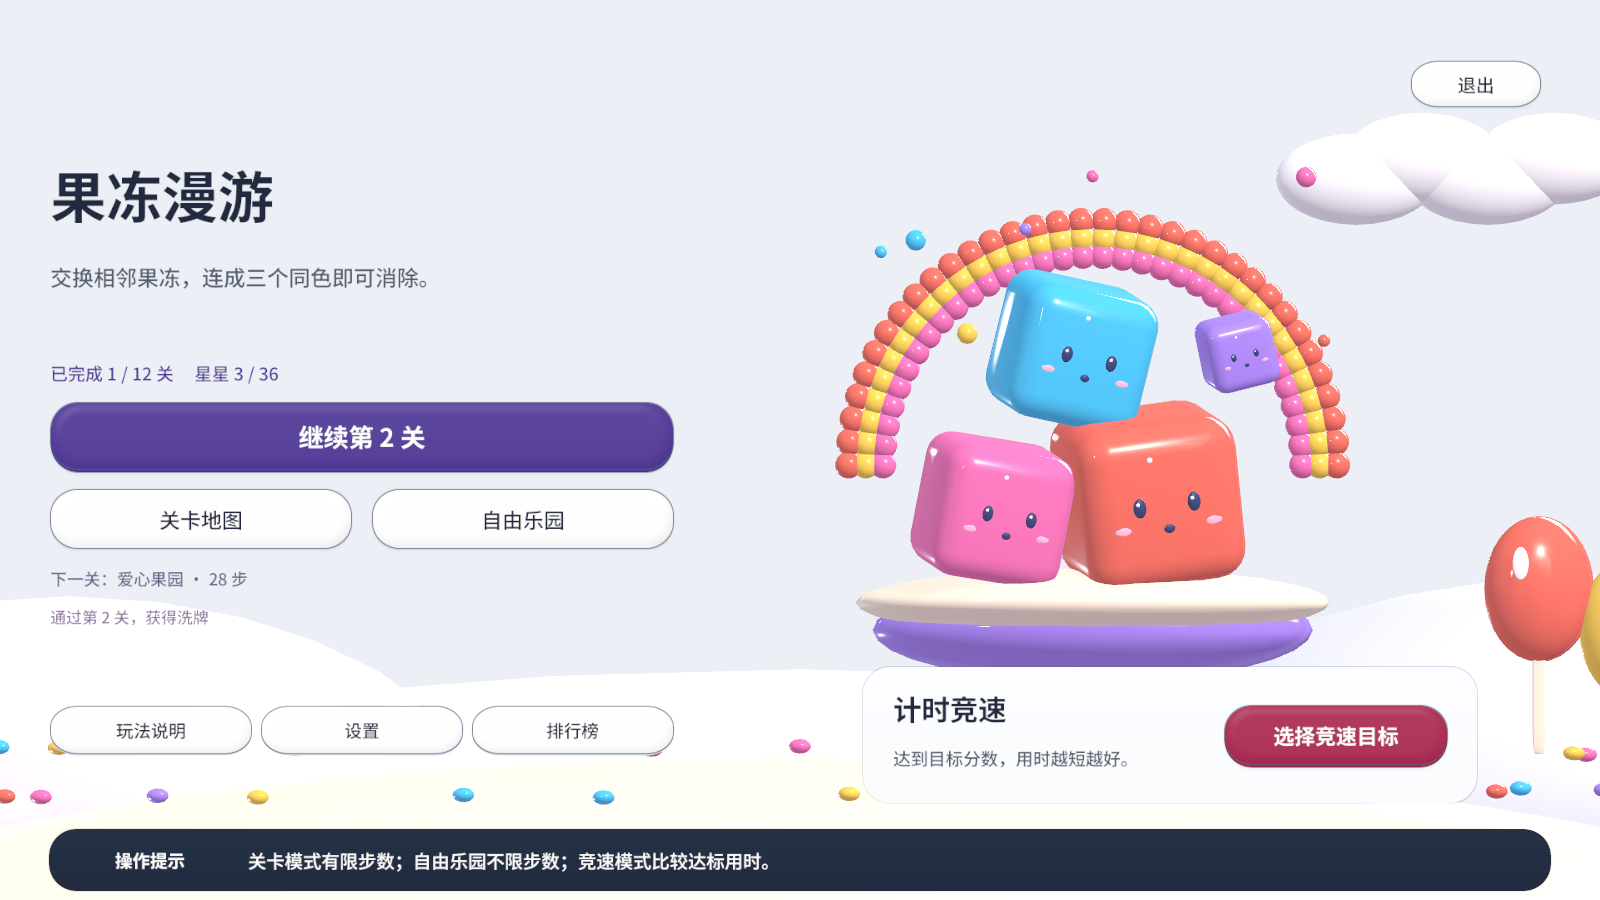
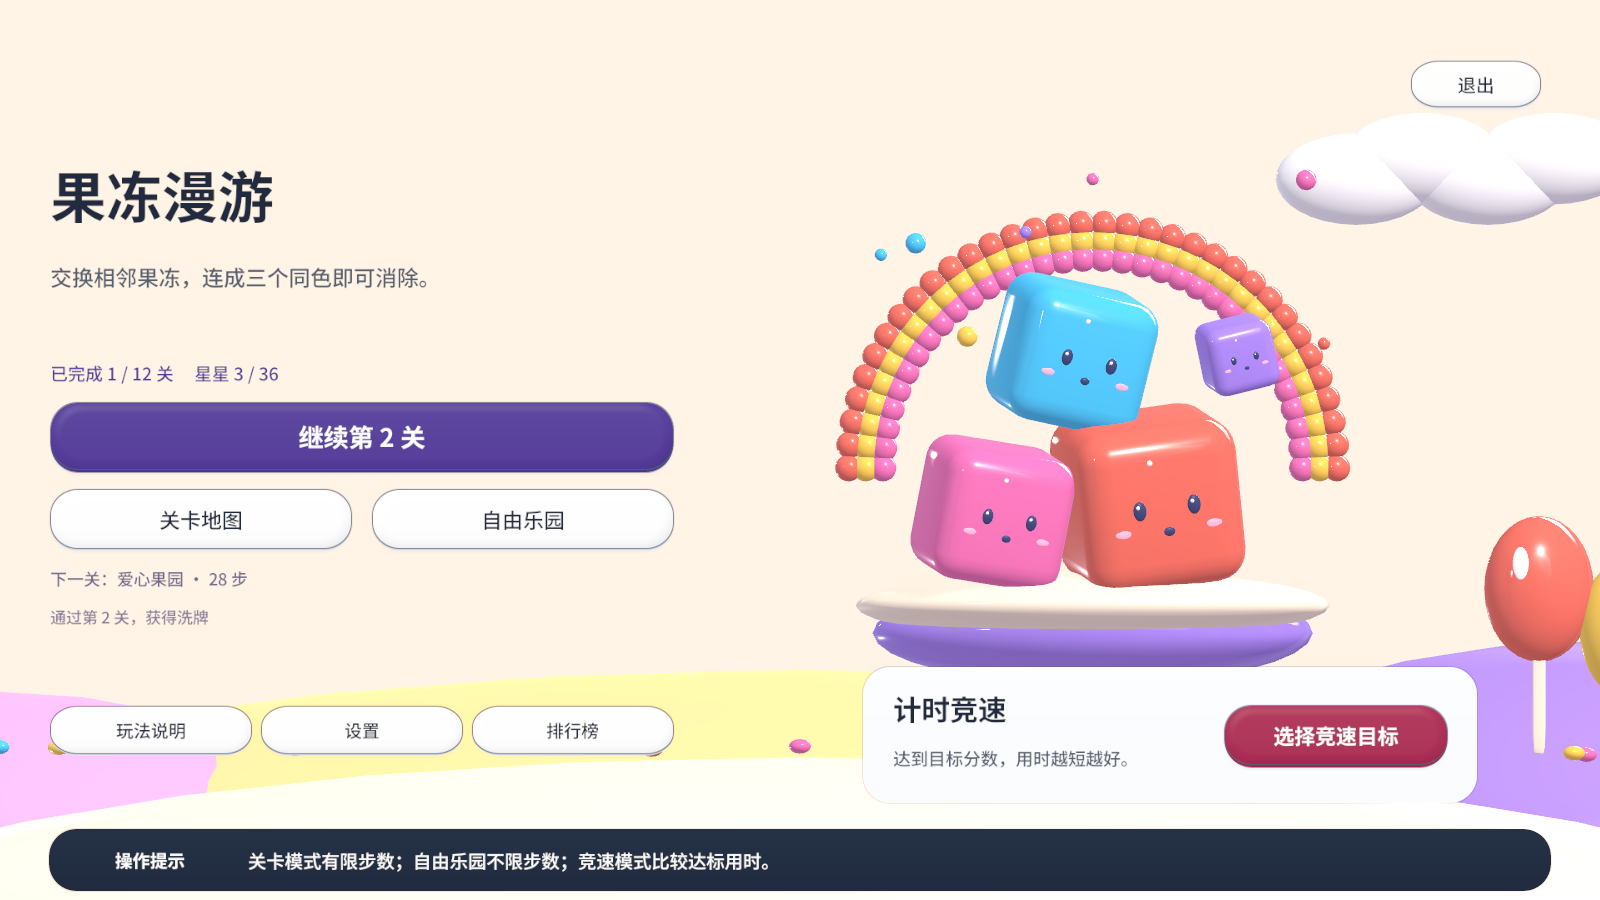
style: restore a colorful candy backdrop on the home screen

diff --git a/Assets/JellyWorld/Scripts/JellyWorld.cs b/Assets/JellyWorld/Scripts/JellyWorld.cs
@@ -103,13 +103,14 @@ namespace JellyWorldGame
         {
             decor=Group("Marshmallow archipelago",transform);
             menuClouds=Group("Menu cloud scenery",decor);sidebarScenery=Group("Menu right-side scenery",decor);
-            var ground=Application.isPlaying?ComfortMaterial(mint,"E5ECEB",.28f):mint;
-            var rose=Application.isPlaying?ComfortMaterial(blush,"F1E6EA",.28f):blush;
-            var lavender=Application.isPlaying?ComfortMaterial(candy[4],"E6E8F2",.28f):candy[4];
-            Shape("Pistachio planet",decor,new Vector3(0,-7,16),new Vector3(33,8,16),ground,true);
+            landscapeGround=Application.isPlaying?ComfortMaterial(mint,"E5ECEB",.28f):mint;
+            landscapeRose=Application.isPlaying?ComfortMaterial(blush,"F1E6EA",.28f):blush;
+            landscapeLavender=Application.isPlaying?ComfortMaterial(candy[4],"E6E8F2",.28f):candy[4];
+            homeBackdropApplied=null;sceneryPebbles.Clear();
+            Shape("Pistachio planet",decor,new Vector3(0,-7,16),new Vector3(33,8,16),landscapeGround,true);
             Shape("Vanilla shore",decor,new Vector3(0,-7.2f,8),new Vector3(30,6,9),cream,true);
-            Shape("Rose dune",decor,new Vector3(-10,-5.5f,14),new Vector3(12,7,10),rose,true);
-            Shape("Lavender dune",decor,new Vector3(11,-5.2f,15),new Vector3(14,7,10),lavender,true);
+            roseDune=Shape("Rose dune",decor,new Vector3(-10,-5.5f,14),new Vector3(12,7,10),landscapeRose,true).transform;
+            lavenderDune=Shape("Lavender dune",decor,new Vector3(11,-5.2f,15),new Vector3(14,7,10),landscapeLavender,true).transform;
             for(int side=-1;side<=1;side+=2) {
                 if(side==1)for(int i=0;i<4;i++) {
                     float x=side*(7.6f+i*.9f);
@@ -124,7 +125,7 @@ namespace JellyWorldGame
             }
             for(int i=0;i<22;i++) {
                 float x=Mathf.Sin(i*12.32f)*11, y=-4.4f+Mathf.Cos(i*3.1f)*.35f;
-                Shape("Sugar pebble",decor,new Vector3(x,y,1+i%3),new Vector3(.3f,.2f,.32f),candy[i%5],true);
+                sceneryPebbles.Add(Shape("Sugar pebble",decor,new Vector3(x,y,1+i%3),new Vector3(.3f,.2f,.32f),candy[i%5],true));
             }
         }
         void BuildHero()
@@ -234,6 +235,7 @@ namespace JellyWorldGame
             HideCampaignPages();
             BeginRaceRun();
             ResetContextHints();
+            RefreshBackdropTheme();
             UpdateHUD();Tone(520,.13f);idle=0;
         }
         public void ShowMenu()
@@ -250,11 +252,13 @@ namespace JellyWorldGame
             HideCampaignPages();
             RefreshJourneyHome();
             ResetContextHints();
+            RefreshBackdropTheme();
         }
         void Update()
         {
             TickRace();
             RefreshContextHelp();
+            RefreshBackdropTheme();
             if(mode!="play" || paused)ResetBoardGesture();
             UpdateTileHover();
             if(mode=="range") { if(Input.GetKeyDown(KeyCode.Escape)) TogglePause(); return; }

diff --git a/Assets/JellyWorld/Scripts/JellyWorldReadability.cs b/Assets/JellyWorld/Scripts/JellyWorldReadability.cs
@@ -1,3 +1,4 @@
+using System.Collections.Generic;
 using UnityEngine;
 using UnityEngine.UI;
 
@@ -7,6 +8,27 @@ namespace JellyWorldGame
     {
         Color UiBackdrop { get { return new Color(.925f,.94f,.965f); } }
         Color MutedText { get { return new Color(.33f,.37f,.44f); } }
+        Material landscapeGround,landscapeRose,landscapeLavender;
+        Transform roseDune,lavenderDune;
+        readonly List<GameObject> sceneryPebbles=new List<GameObject>();
+        bool? homeBackdropApplied;
+
+        void RefreshBackdropTheme()
+        {
+            bool home=mode=="menu";
+            if(homeBackdropApplied==home)return;
+            homeBackdropApplied=home;
+            if(cam!=null)cam.backgroundColor=home?(Color)new Color32(255,244,230,255):UiBackdrop;
+            if(!Application.isPlaying)return;
+            // Only tint the existing scenery copies; jelly pieces keep their own palette.
+            if(landscapeGround!=null)landscapeGround.color=home?new Color32(255,225,151,255):new Color32(229,236,235,255);
+            if(landscapeRose!=null)landscapeRose.color=home?new Color32(255,175,225,255):new Color32(241,230,234,255);
+            if(landscapeLavender!=null)landscapeLavender.color=home?new Color32(177,140,235,255):new Color32(230,232,242,255);
+            // Keep the pink crest below the text column, and leave fewer edge candies on home.
+            if(roseDune!=null)roseDune.localPosition=home?new Vector3(-11,-6.8f,14):new Vector3(-10,-5.5f,14);
+            if(lavenderDune!=null)lavenderDune.localPosition=home?new Vector3(11,-6.1f,15):new Vector3(11,-5.2f,15);
+            for(int i=0;i<sceneryPebbles.Count;i++)if(sceneryPebbles[i]!=null)sceneryPebbles[i].SetActive(!home || i%2==0);
+        }
 
         Image ReadingPanel(string name,Transform parent,Vector2 position,Vector2 size)
         {

diff --git a/Assets/JellyWorld/Editor/JellyRaceVerification.cs b/Assets/JellyWorld/Editor/JellyRaceVerification.cs
@@ -127,7 +127,7 @@ public static class JellyRaceVerification
     {
         yield return null;world.ShowMenu();yield return null;
         Check(GameObject.Find("Race mode entry")!=null,"home exposes the race entry");
-        yield return Capture("01-home");yield return Capture("01-home-1280",1280,720);
+        yield return Capture("01-home");yield return Capture("01-home-1280",1280,720);yield return Capture("01-home-4x3",1024,768);
         var help=GameObject.Find("Instruction").GetComponent<Text>();
         string homeHelp=help.text;
         Check(homeHelp.Contains("有限步数"),"home has persistent mode guidance");

diff --git a/Docs/UI_READABILITY.md b/Docs/UI_READABILITY.md
@@ -4,7 +4,7 @@
 
 - 主要按钮使用深紫或深莓红底色与白字；次要按钮保留白底，并增加持续可见的深色描边。
 - 降低按钮高光，保留悬停、按压反馈，避免高光把实色按钮冲淡。
-- 降低背景山丘的饱和度，为目标、道具和竞速数据增加独立阅读底板。
+- 游戏页面降低背景山丘的饱和度，为目标、道具和竞速数据增加独立阅读底板。
 - 选中的章节和道具使用深色填充；锁定和用完的道具显示不同状态及原因。
 - 删除英文装饰、重复口号和泛化鼓励语，保留实际目标、进度、解锁条件与保存规则。
 - 为排行榜补充名次、玩家、分数、星星和日期列名。
@@ -24,3 +24,9 @@
 提示栏与阅读底板本身不拦截空白区域点击，按钮保留原有点击行为。守护者与靶场使用各自的专用操作栏。
 
 验收与实际截图见 [2026-11-01 验收记录](verification/2026-11-01/RESULTS.md)。
+
+## 主页糖果背景
+
+主页保留原有彩虹果冻、云朵、糖果树和漂浮岛，恢复奶油底色、棉花糖粉、薰衣草紫与蜂蜜黄。鲜艳色块集中在右侧角色与页面下沿；粉色山丘下移以避开左侧文字，主页底部装饰糖粒减半。按钮描边、阅读底板与操作提示栏继续保留。
+
+主页使用独立的背景配色；进入关卡或其他模式时恢复低饱和背景，返回主页时自动恢复糖果色。复用现有模型和运行时材质副本，不修改果冻棋子的颜色或素材文件。

diff --git a/Assets/JellyWorld/README.md b/Assets/JellyWorld/README.md
@@ -26,6 +26,8 @@
 
 首页保留关卡旅程、自由乐园和计时竞速入口，删除装饰性英文和重复口号。深色主按钮与描边次按钮在低饱和背景上保持清晰；进度、解锁条件和快捷设置保留。页面淡入在简洁特效模式下直接跳过；全部美术复用已有场景、字体和圆角资源。
 
+主页单独使用奶油底色、粉色与薰衣草色山丘和蜂蜜黄地形，保留原有彩虹、糖果树和果冻角色。鲜艳色块位于角色周围与页面边缘，避开文字；装饰糖粒减半。进入游戏或其他页面时恢复低饱和场景，返回主页时恢复糖果配色；切换不创建新材质，不改变棋子的颜色。
+
 计时竞速有 3000、6000、10000 分三个目标，使用 8×8 五色棋盘，不限步数且不使用道具。计时在首次达标时冻结，各档独立保存毫秒精度的本机最佳；暂停、设置与切出窗口不计时。竞速纪录不改变原关卡和排行榜。完整规则与验证菜单见 `Docs/RACE_MODE.md`。
 
 目标、道具与竞速数据使用独立阅读底板，按目标行数调整道具区位置。按钮持续显示边界，选中、锁定和用完有不同状态。底部深色提示栏显示当前规则、悬停功能说明、道具使用与取消方式及临时反馈。阅读底板和提示栏的空白区域不拦截点击，只有实际控件接收输入。

diff --git a/Docs/verification/2026-11-01/RESULTS.md b/Docs/verification/2026-11-01/RESULTS.md
@@ -17,9 +17,15 @@
 
 [本次自动验证明细](checks.txt)
 
+## 主页糖果配色复查
+
+恢复主页的奶油底色与粉、紫、黄糖果色地形，保留原有场景元素，减少底部装饰密度。已从停止状态重新进入 Play Mode，检查 1600×900、1280×720 和 1024×768 的实际渲染；文字区与鲜艳色块分离，按钮和提示栏可读。切换关卡后恢复低饱和背景，运行验证与 Console 错误检查通过。
+
 ## 实际截图
 
 ![首页与提示栏](../../images/readability-20261101/home.png)
+
+![主页 4:3 比例](../../images/readability-20261101/home-4x3.png)
 
 ![关卡与提示栏](../../images/readability-20261101/campaign.png)
 
